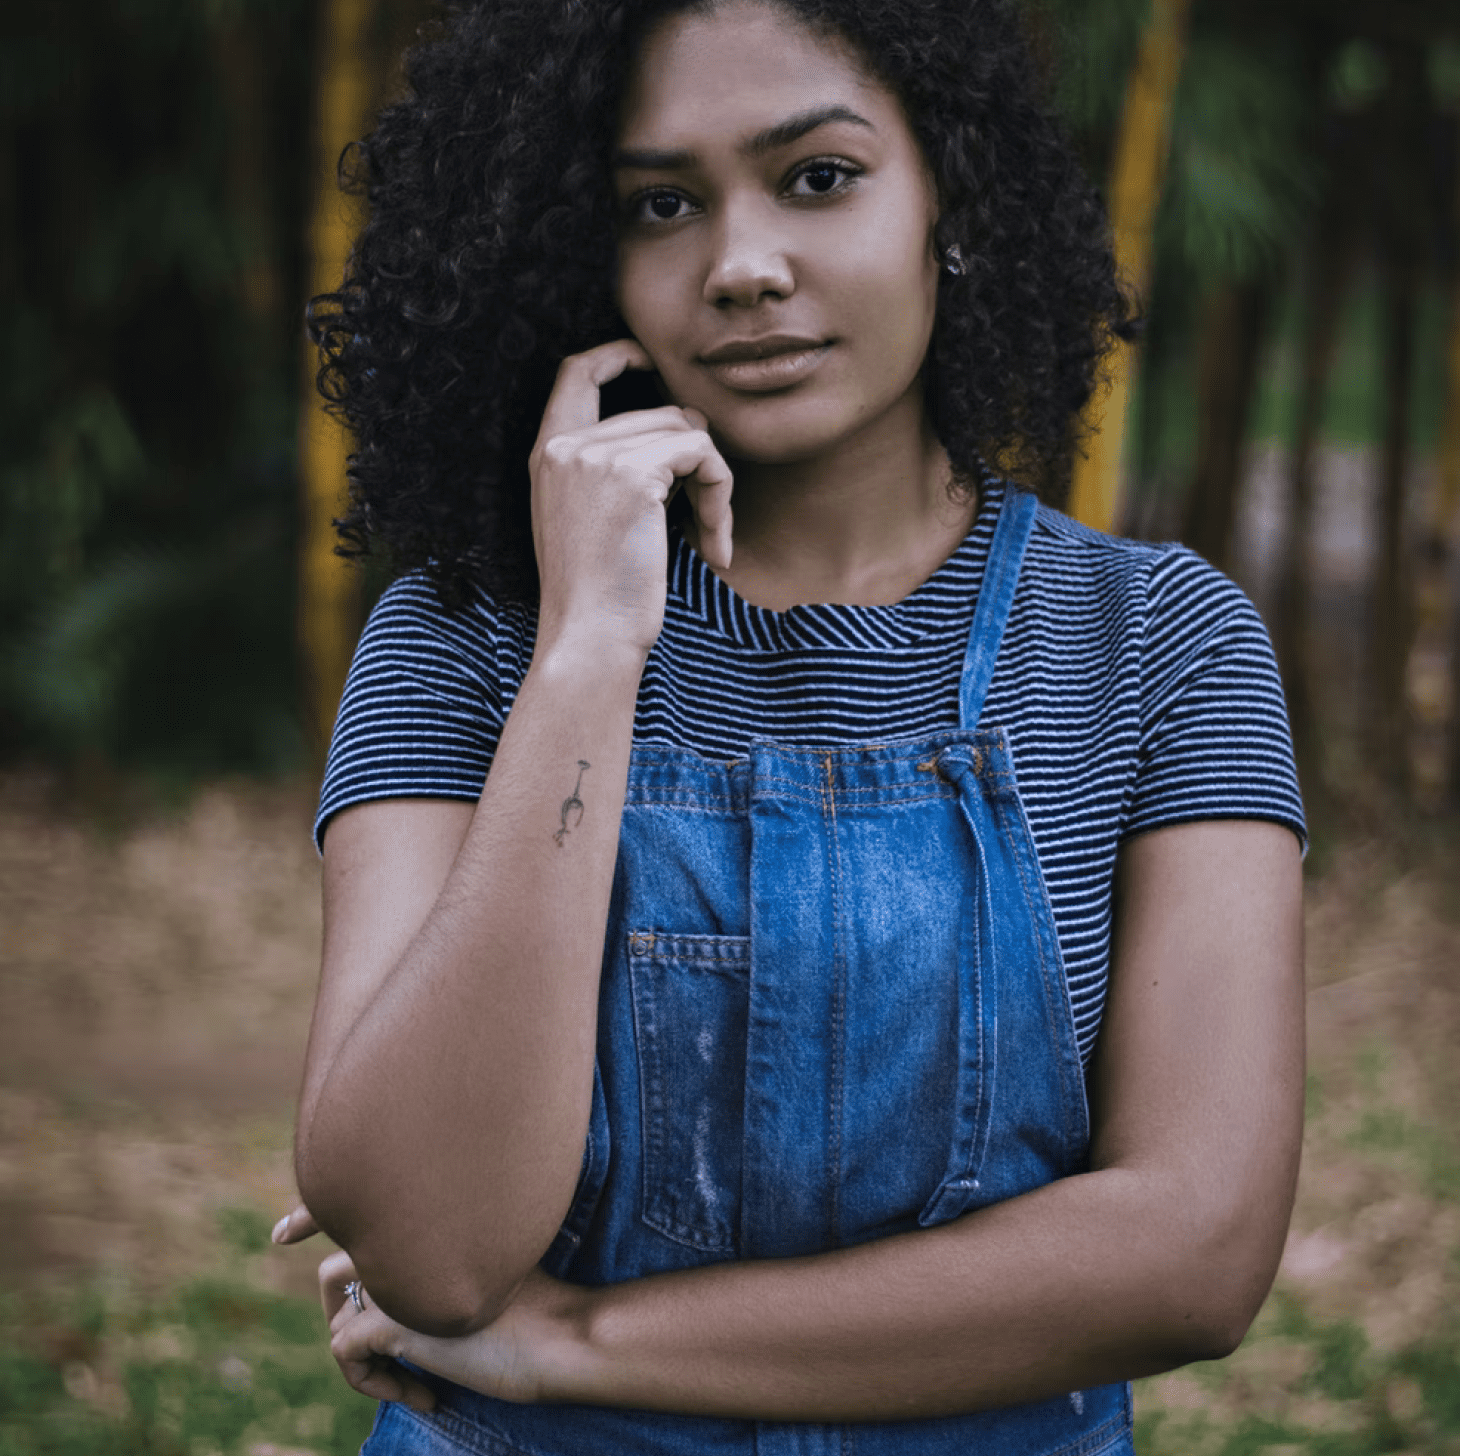
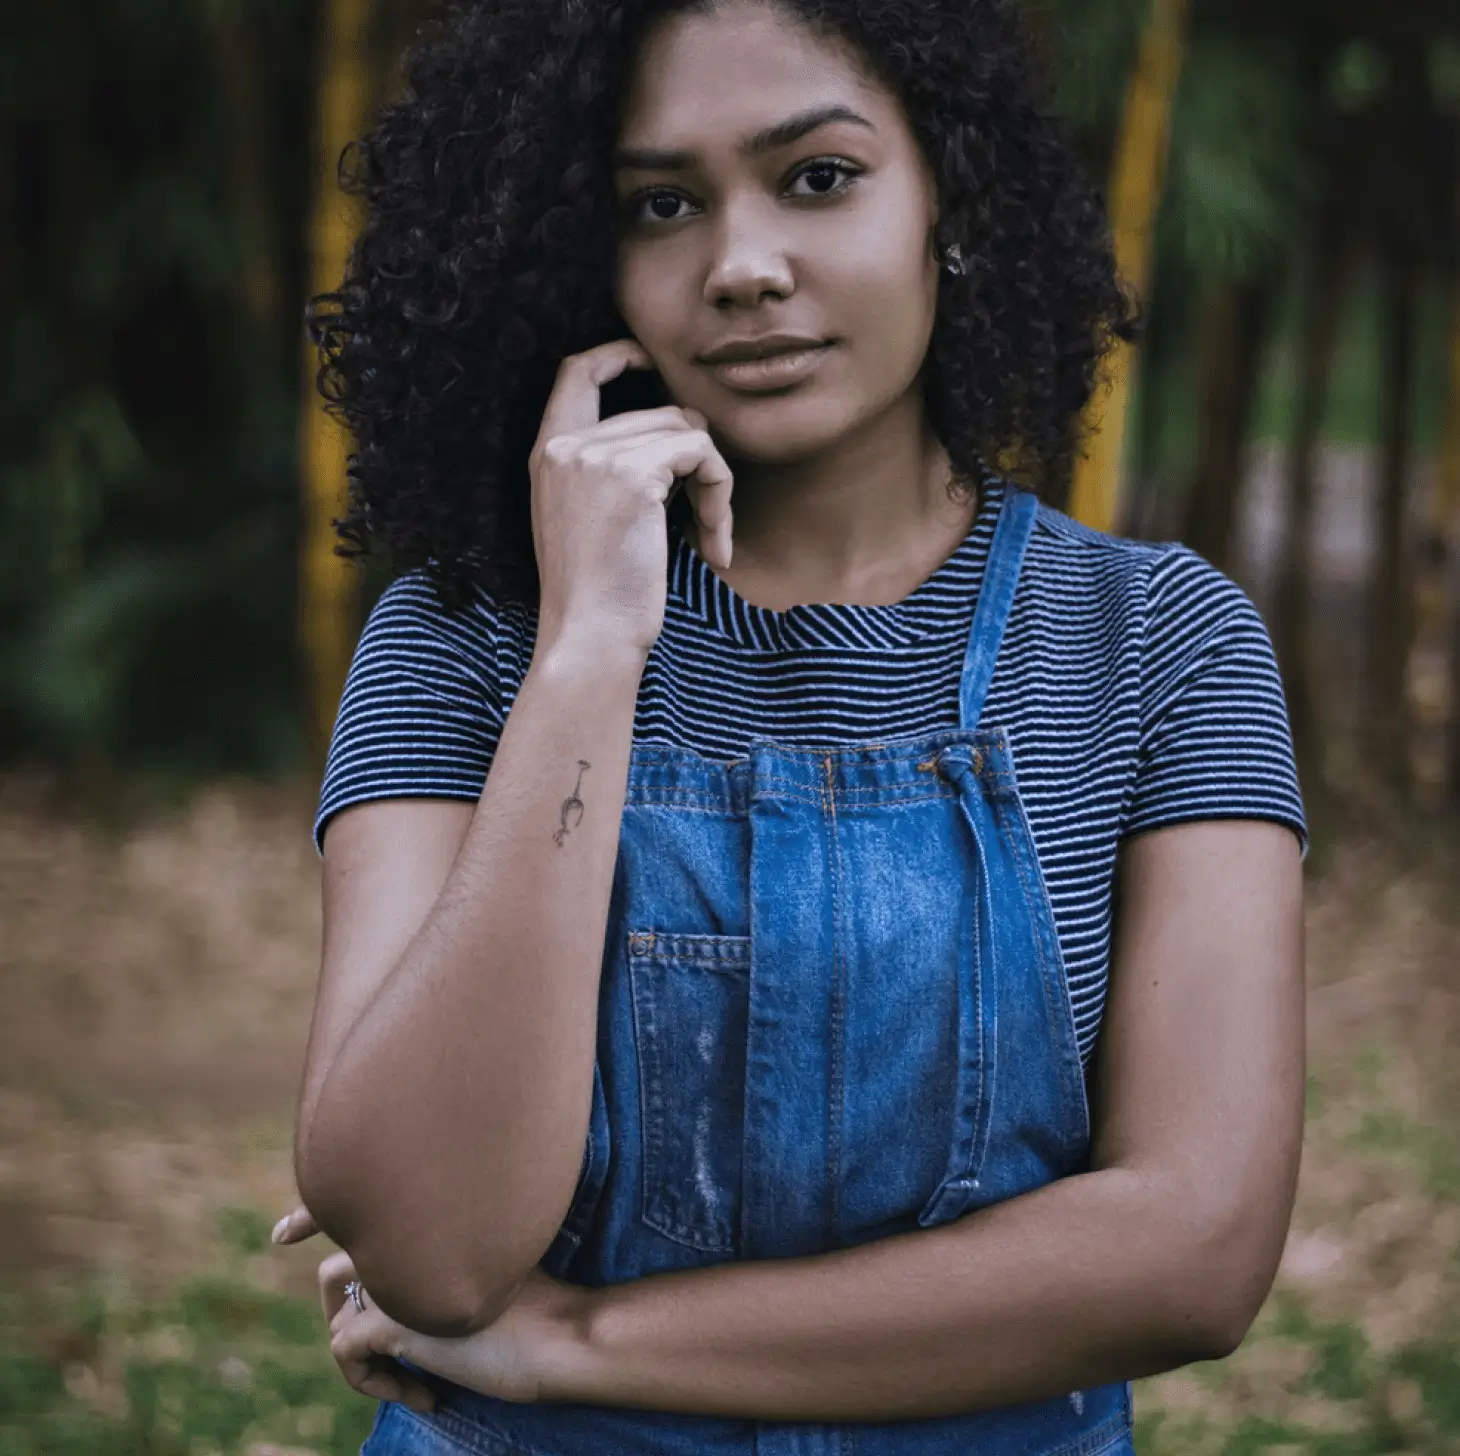
Redimension des images

Changed region(s): [[0.0308, 0.4636, 0.0616, 0.4945]]

diff --git a/index.html b/index.html
@@ -14,7 +14,6 @@
       rel="stylesheet"
     />
     <meta charset="UTF-8" />
-	
     <title>
       Photographe professionnelle en Île-de-France et à Bordeaux - Nina Carducci
     </title>
@@ -82,9 +81,9 @@
           <div class="carousel-inner">
             <div class="carousel-item active">
               <img
-                src="./assets/images/slider/ryoji-iwata-wUZjnOv7t0g-unsplash_1.webp"
+                src="./assets/images/slider/edward-cisneros-3_h6-1NPDGw-unsplash.webp"
                 class="d-block w-100"
-                alt="homme qui marche avec une valise"
+                alt="mariage"
               />
             </div>
             <div class="carousel-item">
@@ -98,7 +97,7 @@
               <img
                 src="./assets/images/slider/ryoji-iwata-wUZjnOv7t0g-unsplash_1.webp"
                 class="d-block w-100"
-                alt="mariage"
+                alt="homme qui marche avec une valise"
               />
             </div>
           </div>
@@ -154,55 +153,55 @@
             <img
               data-gallery-tag="Concert"
               class="gallery-item"
-              src="./assets/images/gallery/concerts/aaron-paul-wnX-fXzB6Cw-unsplash.webp"
+              src="./assets/images/gallery/concerts/concert-1.webp"
               alt="concert"
             />
             <img
               data-gallery-tag="Entreprises"
               class="gallery-item"
-              src="./assets/images/gallery/entreprise/ali-morshedlou-wmd64tmfc4k-unsplash.webp"
+              src="./assets/images/gallery/entreprise/entreprise-1.webp"
               alt="homme d'affaires"
             />
             <img
               data-gallery-tag="Entreprises"
               class="gallery-item"
-              src="./assets/images/gallery/entreprise/jason-goodman-tho1-oukbg0-unsplash.webp"
+              src="./assets/images/gallery/entreprise/entreprise-2.webp"
               alt="entreprise"
             />
             <img
               data-gallery-tag="Mariages"
               class="gallery-item"
-              src="./assets/images/gallery/mariage/hannah-busing-rvf2r-qmprk-unsplash.webp"
+              src="./assets/images/gallery/mariage/mariage-2.webp"
               alt="mariage"
             />
             <img
               data-gallery-tag="Portrait"
               class="gallery-item"
-              src="./assets/images/gallery/portraits/ade-tunji-rvkhwwzfatq-unsplash.webp"
+              src="./assets/images/gallery/portraits/portrait-1.webp"
               alt="portrait homme"
             />
             <img
               data-gallery-tag="Mariages"
               class="gallery-item"
-              src="./assets/images/gallery/mariage/jakob-owens-siniljkxhmc-unsplash.webp"
+              src="./assets/images/gallery/mariage/mariage-1.webp"
               alt="mariage"
             />
             <img
               data-gallery-tag="Portrait"
               class="gallery-item"
-              src="./assets/images/gallery/portraits/an-prattenburg-443cl1ur-8-unsplash.webp"
+              src="./assets/images/gallery/portraits/portait-2.webp"
               alt="portait femme"
             />
             <img
               data-gallery-tag="Concert"
               class="gallery-item"
-              src="./assets/images/gallery/concerts/austin-neill-hgO1wFPXl3I-unsplash.webp"
+              src="./assets/images/gallery/concerts/concert-2.webp"
               alt="artiste concert"
             />
             <img
               data-gallery-tag="Entreprises"
               class="gallery-item"
-              src="./assets/images/gallery/entreprise/s-campos-felipe-fsgzm8n0hiy-unsplash.webp"
+              src="./assets/images/gallery/entreprise/entreprise-3.webp"
               alt="entreprise"
             />
           </div>
